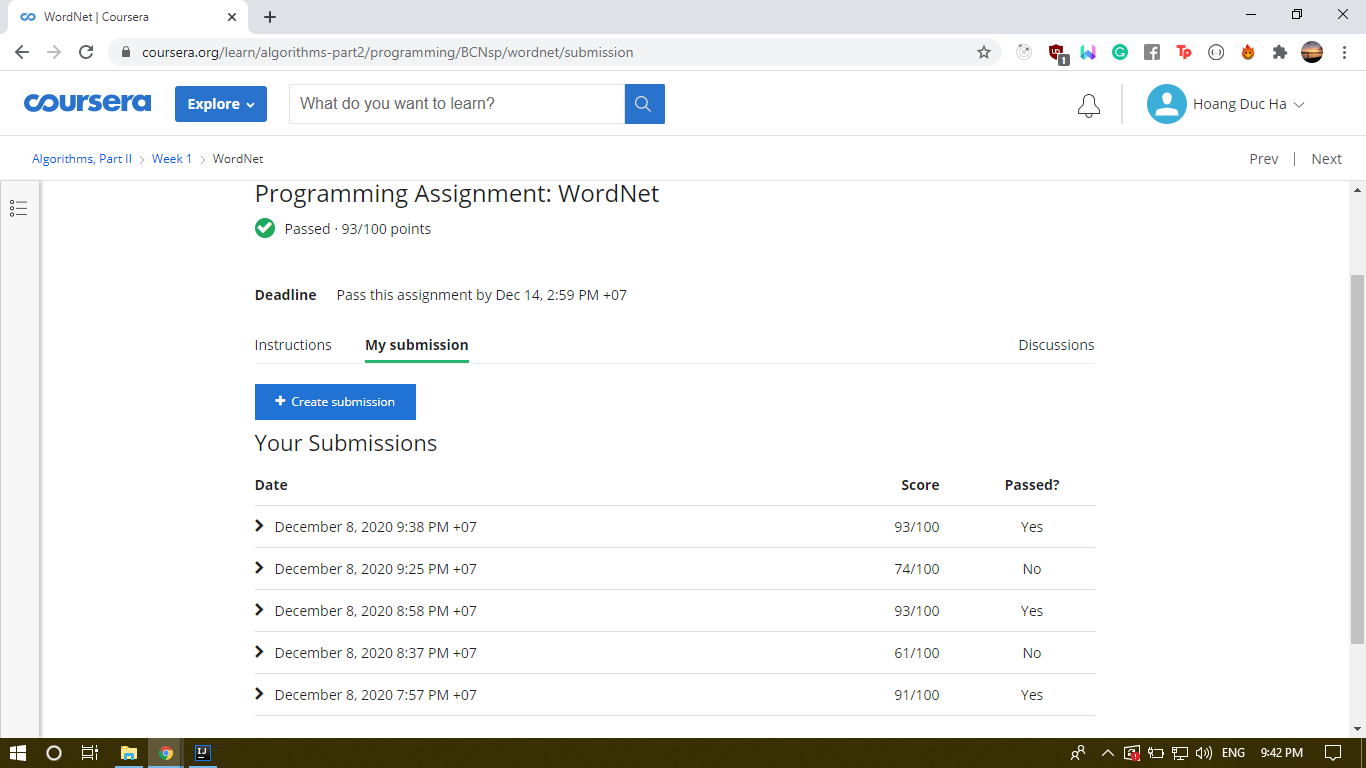
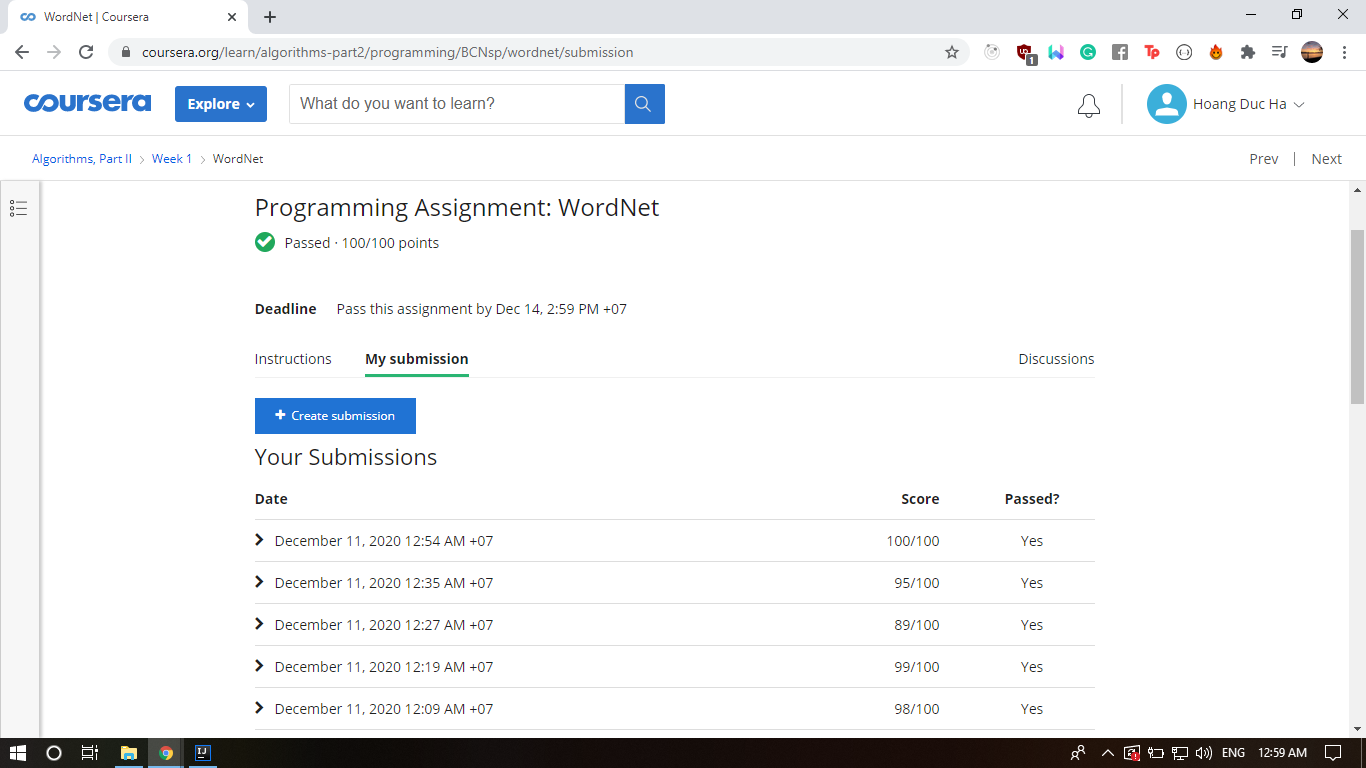
Update WordNet 100

diff --git a/Assignment1_Part2 - WordNet/SAP.java b/Assignment1_Part2 - WordNet/SAP.java
@@ -3,79 +3,49 @@ import edu.princeton.cs.algs4.Digraph;
 
 public class SAP {
     private final Digraph G;
-    private final BreadthFirstDirectedPaths[] bfsArr;
 
     // constructor takes a digraph (not necessarily a DAG)
     public SAP(Digraph G) {
         if (G == null)
             throw new IllegalArgumentException();
         this.G = new Digraph(G);
-        bfsArr = new BreadthFirstDirectedPaths[G.V()];
-    }
-
-    public int length(int v, int w) {
-        if (v < 0 || v >= G.V())
-            throw new IllegalArgumentException();
-        if (w < 0 || w >= G.V())
-            throw new IllegalArgumentException();
-
-        return length(v, w, true);
-    }
-
-    public int ancestor(int v, int w) {
-        if (v < 0 || v >= G.V())
-            throw new IllegalArgumentException();
-        if (w < 0 || w >= G.V())
-            throw new IllegalArgumentException();
-
-        return ancestor(v, w, true);
     }
 
     // length of shortest ancestral path between v and w; -1 if no such path
-    private int length(int v, int w, boolean clear) {
-        if (bfsArr[v] == null)
-            bfsArr[v] = new BreadthFirstDirectedPaths(G, v);
+    public int length(int v, int w) {
+        if (isNotInRange(v, w))
+            throw new IllegalArgumentException();
 
-        if (bfsArr[w] == null)
-            bfsArr[w] = new BreadthFirstDirectedPaths(G, w);
+        BreadthFirstDirectedPaths bfsV = new BreadthFirstDirectedPaths(G, v);
+        BreadthFirstDirectedPaths bfsW = new BreadthFirstDirectedPaths(G, w);
 
         int length = Integer.MAX_VALUE;
         for (int i = 0; i < G.V(); i++) {
-            if (bfsArr[v].hasPathTo(i) && bfsArr[w].hasPathTo(i))
-                if (bfsArr[v].distTo(i) + bfsArr[w].distTo(i) < length)
-                    length = bfsArr[v].distTo(i) + bfsArr[w].distTo(i);
-        }
-
-        if (clear) {
-            bfsArr[v] = null;
-            bfsArr[w] = null;
+            if (bfsV.hasPathTo(i) && bfsW.hasPathTo(i))
+                if (bfsV.distTo(i) + bfsW.distTo(i) < length)
+                    length = bfsV.distTo(i) + bfsW.distTo(i);
         }
 
         return length == Integer.MAX_VALUE ? -1 : length;
     }
 
     // a common ancestor of v and w that participates in a shortest ancestral path; -1 if no such path
-    private int ancestor(int v, int w, boolean clear) {
-        if (bfsArr[v] == null)
-            bfsArr[v] = new BreadthFirstDirectedPaths(G, v);
+    public int ancestor(int v, int w) {
+        if (isNotInRange(v, w))
+            throw new IllegalArgumentException();
 
-        if (bfsArr[w] == null)
-            bfsArr[w] = new BreadthFirstDirectedPaths(G, w);
+        BreadthFirstDirectedPaths bfsV = new BreadthFirstDirectedPaths(G, v);
+        BreadthFirstDirectedPaths bfsW = new BreadthFirstDirectedPaths(G, w);
 
         int length = Integer.MAX_VALUE;
         int ancestor = -1;
         for (int i = 0; i < G.V(); i++) {
-            if (bfsArr[v].hasPathTo(i) && bfsArr[w].hasPathTo(i)) {
-                if (bfsArr[v].distTo(i) + bfsArr[w].distTo(i) < length) {
-                    length = bfsArr[v].distTo(i) + bfsArr[w].distTo(i);
+            if (bfsV.hasPathTo(i) && bfsW.hasPathTo(i)) {
+                if (bfsV.distTo(i) + bfsW.distTo(i) < length) {
+                    length = bfsV.distTo(i) + bfsW.distTo(i);
                     ancestor = i;
                 }
             }
-        }
-
-        if (clear) {
-            bfsArr[v] = null;
-            bfsArr[w] = null;
         }
 
         return ancestor;
@@ -86,13 +56,17 @@ public class SAP {
         if (isIllegalArg(v, w))
             throw new IllegalArgumentException();
 
+        if (isEmpty(v) || isEmpty(w))
+            return -1;
+
+        BreadthFirstDirectedPaths bfsV = new BreadthFirstDirectedPaths(G, v);
+        BreadthFirstDirectedPaths bfsW = new BreadthFirstDirectedPaths(G, w);
+
         int length = Integer.MAX_VALUE;
-        for (int i : v) {
-            for (int j : w) {
-                int tempLength = length(i, j, false);
-                if (tempLength != -1 && tempLength < length)
-                    length = tempLength;
-            }
+        for (int i = 0; i < G.V(); i++) {
+            if (bfsV.hasPathTo(i) && bfsW.hasPathTo(i))
+                if (bfsV.distTo(i) + bfsW.distTo(i) < length)
+                    length = bfsV.distTo(i) + bfsW.distTo(i);
         }
 
         return length == Integer.MAX_VALUE ? -1 : length;
@@ -103,19 +77,32 @@ public class SAP {
         if (isIllegalArg(v, w))
             throw new IllegalArgumentException();
 
+        if (isEmpty(v) || isEmpty(w))
+            return -1;
+
+        BreadthFirstDirectedPaths bfsV = new BreadthFirstDirectedPaths(G, v);
+        BreadthFirstDirectedPaths bfsW = new BreadthFirstDirectedPaths(G, w);
+
         int length = Integer.MAX_VALUE;
         int ancestor = -1;
-        for (int i : v) {
-            for (int j : w) {
-                int tempLength = length(i, j, false);
-                if (tempLength != -1 && tempLength < length) {
-                    length = tempLength;
-                    ancestor = ancestor(i, j, false);
+        for (int i = 0; i < G.V(); i++) {
+            if (bfsV.hasPathTo(i) && bfsW.hasPathTo(i)) {
+                if (bfsV.distTo(i) + bfsW.distTo(i) < length) {
+                    length = bfsV.distTo(i) + bfsW.distTo(i);
+                    ancestor = i;
                 }
             }
         }
 
         return ancestor;
+    }
+
+    private boolean isNotInRange(int v, int w) {
+        if (v < 0 || v >= G.V())
+            return true;
+        if (w < 0 || w >= G.V())
+            return true;
+        return false;
     }
 
     private boolean isIllegalArg(Iterable<Integer> v, Iterable<Integer> w) {
@@ -127,7 +114,13 @@ public class SAP {
         for (Integer vertex : w)
             if (vertex == null || vertex < 0 || vertex >= G.V())
                 return true;
-
         return false;
+    }
+
+    private boolean isEmpty(Iterable<Integer> v) {
+        for (Integer ignored : v)
+            return false;
+
+        return true;
     }
 }

diff --git a/Assignment1_Part2 - WordNet/WordNet.java b/Assignment1_Part2 - WordNet/WordNet.java
@@ -1,6 +1,5 @@
 import edu.princeton.cs.algs4.Digraph;
 import edu.princeton.cs.algs4.DirectedCycle;
-import edu.princeton.cs.algs4.DirectedDFS;
 import edu.princeton.cs.algs4.In;
 import edu.princeton.cs.algs4.SET;
 import edu.princeton.cs.algs4.ST;
@@ -53,9 +52,8 @@ public class WordNet {
 
         int counter = 0;
         for (int i = 0; i < wordNet.V(); i++) {
-            DirectedDFS directedDFS = new DirectedDFS(wordNet, i);
-
-            if (directedDFS.count() == 1) counter++;
+            if (!wordNet.adj(i).iterator().hasNext())
+                counter++;
 
             if (counter > 1) throw new IllegalArgumentException();
         }
